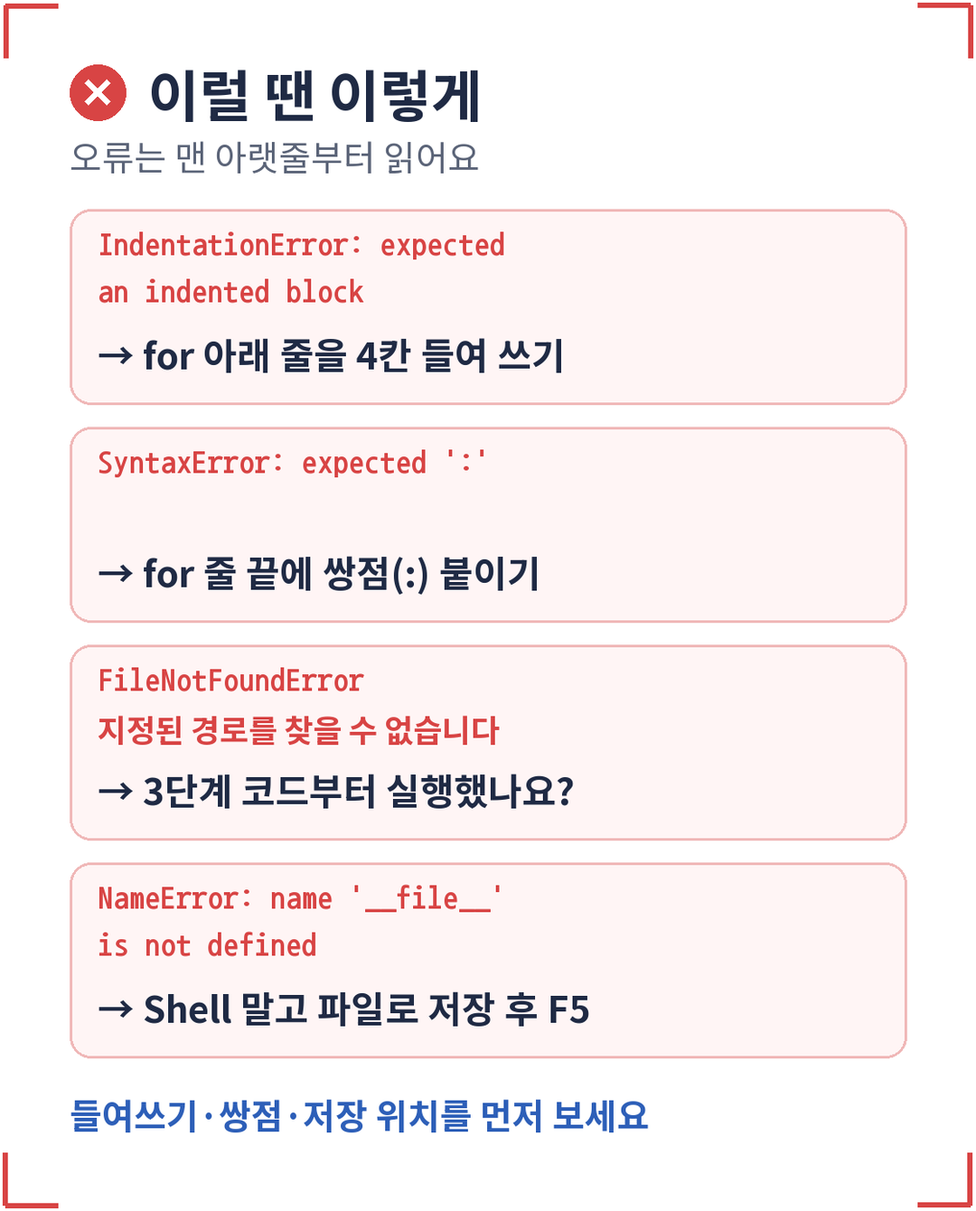
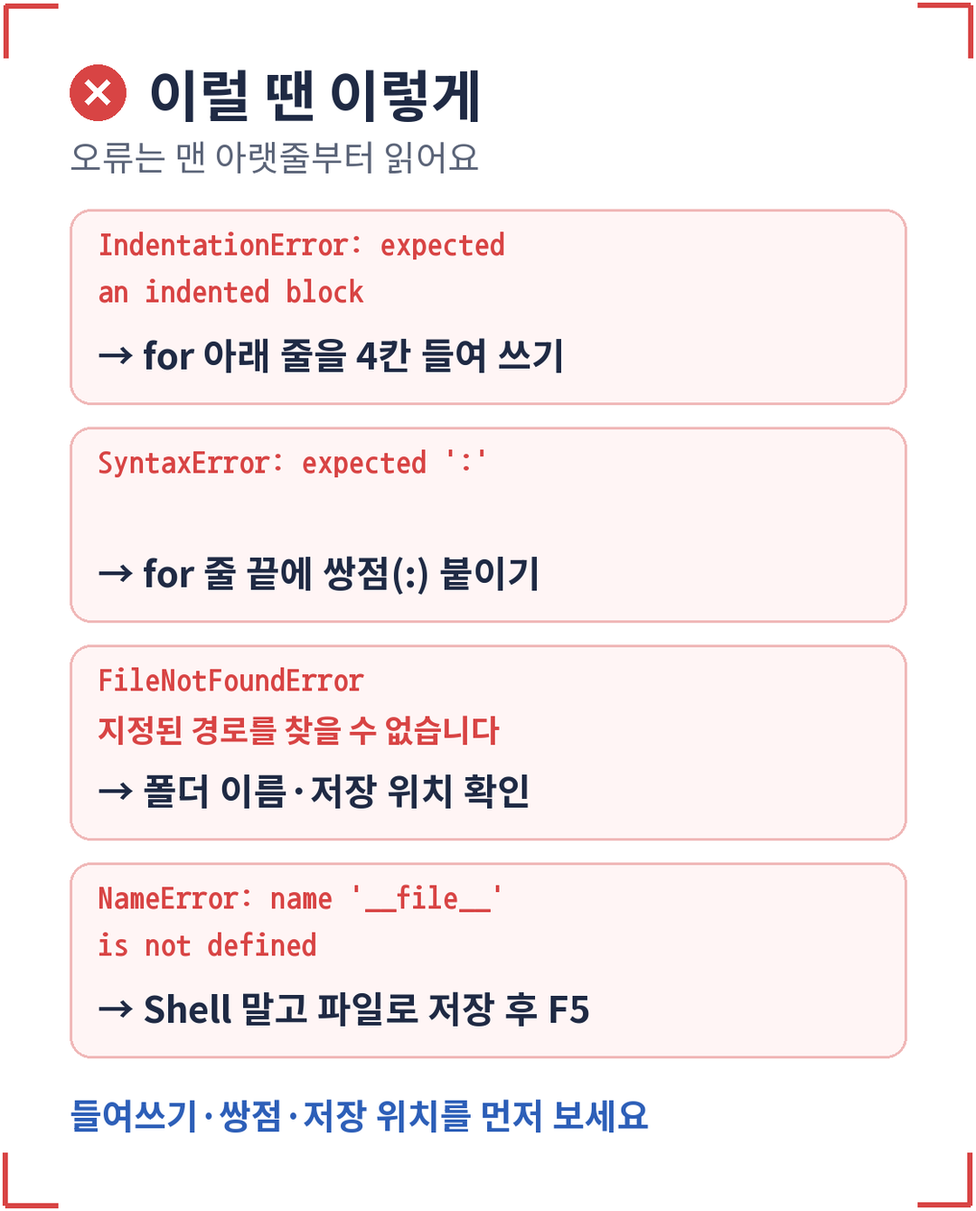
업무 파이썬 초급 2편 검수 반영·타이틀 적용, 0~1편 타이틀을 '파이썬 초급 N강' 배지 디자인으로 교체
- 2편: 외부 검수 열다섯 가지 반영(공백 포함 4,102자), 이미지 07 수정, 타이틀 적용
- 0·1편 타이틀: 노란 알약 배지 '파이썬 초급 N강' + 주제 두 줄로 다시 받아 적용
- 2편 새 타이틀은 글자가 위로 치우치고 폭이 넘쳐 측정값을 적어 다시 요청 중
- 연재 파일에 타이틀 규칙 추가, AGENTS.md 기록 갱신

Changed region(s): [[0.1528, 0.6425, 0.5806, 0.6731]]

diff --git a/문서/네이버-코딩가이드/20261121_업무파이썬-초급-02/index.html b/문서/네이버-코딩가이드/20261121_업무파이썬-초급-02/index.html
@@ -6,7 +6,7 @@
 검색 설명: 업무 파이썬 초급 연재 2편. 폴더에 쌓인 파일 이름을 파이썬으로 한 번에 뽑아 화면에 보여 주고 개수까지 센다. 여러 값을 담는 리스트, 하나씩 꺼내는 for 반복, 들여쓰기 규칙을 업무 예시로 풀었고, 결과를 엑셀에 붙이는 방법과 자주 나는 오류도 정리했다.
 카테고리: 파이썬 코딩
 태그: #파이썬 #파이썬기초 #파이썬초보 #업무자동화 #직장인 #파일목록 #파이썬for문 #파이썬리스트 #엑셀자동화 #pathlib
-글자 수: 본문 공백 포함 3,730자 / 공백 제외 2,985자 (빨간 글씨 이미지 표시·줄바꿈 제외, 코드 포함, 2026.11.21)
+글자 수: 본문 공백 포함 4,102자 / 공백 제외 3,272자 (빨간 글씨 이미지 표시·줄바꿈 제외, 코드 포함, 2026.11.21)
 본문 글자 크기: 16px. 소제목 h2 24px, h3 18px + 기호 ▣(이 글 안에서는 모두 같은 기호).
 연재: 「초보도 업무에서 바로 쓰는 파이썬」 초급 2편(목차·규칙은 저장소 루트 '네이버-코딩가이드-업무파이썬-연재.md'). 이전 편: 초급 1편 「보고서 이름에 날짜 자동 입력」.
 발행 방법: 이 파일을 브라우저로 연 다음 본문을 드래그해 복사 → 네이버 편집기에 붙여넣는다. 코드 블록은 네이버 편집기의 '소스코드' 기능으로 다시 넣는 것을 권장.
@@ -27,6 +27,7 @@
 - 코드 확인(2026.11.21, 윈도우 11·Python 3.14.5): 본문 코드 전부와 미션 코드를 실행. 리스트 출력 ['1월_매출.xlsx', '견적서_A사.pdf', '회의록.docx'] / 3 / 1월_매출.xlsx, for 출력 세 줄과 '끝', 연습 파일 8개 생성, 파일 목록 정렬 결과(1월·2월·3월 매출, 거래처_목록, 견적서 A·B, 행사_사진, 회의록_1105) '모두 8개', suffix 출력. 오류 메시지는 실제로 낸 것: IndentationError: expected an indented block after 'for' statement on line 2 / SyntaxError: expected ':' / FileNotFoundError: [WinError 3] 지정된 경로를 찾을 수 없습니다 / IndexError: list index out of range / (Shell에서) NameError: name '__file__' is not defined. Did you mean: '__name__'?
 - 정렬 순서는 숫자 → 한글 가나다 순으로 나왔다(문자 코드 순 정렬). 독자 PC에서도 같은 이름이면 같은 순서지만, 이름이 다르면 탐색기의 정렬과 조금 다를 수 있다고 본문에 적었다.
 - Shell 결과를 드래그해 복사한 뒤 엑셀에 붙이면 한 줄이 한 칸에 들어간다는 것은 일반적인 윈도우 동작(실제 엑셀 화면은 확인하지 못함, 그림은 도식).
+- [2026.11.21 외부 검수 반영(열다섯 가지)] '보기만'은 목록 코드에 한정하고 3단계는 빈 파일을 만든다고 밝힘, 위치 번호(인덱스)는 0부터, print(names)는 리스트 전체 표현, IDLE 자동 들여쓰기, 저장 위치 '파이썬연습 폴더 안', 샘플 폴더·빈 파일 8개가 '만들어진다', 리스트+for 연결 설명, mkdir의 exist_ok와 touch(이미 있으면 내용 그대로·수정 시각만)를 나눠 설명(공식 문서 확인), iterdir는 '바로 안'의 파일·폴더(하위 폴더 안까지는 아님), sorted는 이름의 문자 코드 순·탐색기와 다를 수 있음, 지금 코드는 파일·폴더 구분 안 함, 엑셀 붙이기는 '보통'·버전과 설정에 따라 다를 수 있음, 오류 개수 표현을 '정리했다'로·맨 아랫줄의 앞부분만 옮겼다고 밝힘, FileNotFoundError는 폴더가 없을 때만이 아니라 저장 위치·폴더 이름 문제로 넓힘. 이미지 07의 해당 줄도 '폴더 이름·저장 위치 확인'으로 고침. 검수가 확인을 요청한 이미지 04(print("끝")은 바깥)·05(8개·모두 8개)는 맞음. 초안에 넣었던 '한 칸에 몰리면 텍스트 나누기' 안내는 행이 아니라 열을 나누는 기능이라 맞지 않아 뺐다.
 - 2026-11-21부터 적용한 형식: 소제목 h2 24px·h3 18px+기호, 짧은 문장·짧은 문단, 의미 있는 이미지만(실사 없음). 0·1편은 앞선 형식 그대로다.
 -->
 
@@ -50,7 +51,9 @@
 
 <p style="font-size:16px;">이 목록은 그대로 복사해 엑셀이나 메일에 붙일 수 있어요.</p>
 
-<p style="font-size:16px;">파일 이름을 바꾸지도, 지우지도 않습니다. <b>보기만</b> 하니까 안심하고 따라 하세요.</p>
+<p style="font-size:16px;">오늘 배우는 파일 목록 코드는 이름을 바꾸거나 지우지 않습니다. <b>보기만</b> 해요.</p>
+
+<p style="font-size:16px;">다만 3단계에서는 연습용 빈 파일을 새로 만듭니다.</p>
 
 <p>&nbsp;</p>
 <hr style="border:none;border-top:1px solid #cfcfcf;margin:8px 0;">
@@ -82,7 +85,7 @@ print(names[0])</code></pre>
 <ul style="font-size:16px;">
 <li><code>len(names)</code>는 칸이 몇 개인지 셉니다. 여기서는 3이에요.</li>
 <li><code>names[0]</code>은 첫 번째 칸입니다.</li>
-<li>번호는 <b>1이 아니라 0부터</b> 셉니다. 세 칸이면 0, 1, 2예요.</li>
+<li>칸의 위치 번호(인덱스)는 <b>1이 아니라 0부터</b> 시작합니다. 세 칸이면 0, 1, 2예요.</li>
 </ul>
 
 <p style="font-size:16px;">괄호 안에서는 줄을 바꿔 써도 됩니다. 휴대폰에서 읽기 쉽게 한 줄에 하나씩 적었어요.</p>
@@ -91,7 +94,7 @@ print(names[0])</code></pre>
 <hr style="border:none;border-top:1px solid #cfcfcf;margin:8px 0;">
 <h2 style="font-size:24px;margin:40px 0 12px;">2단계: 하나씩 꺼내 보여 주기</h2>
 
-<p style="font-size:16px;"><code>print(names)</code>는 대괄호와 따옴표까지 한 줄에 다 보여 줍니다. 보고서에 붙이기엔 불편하죠.</p>
+<p style="font-size:16px;"><code>print(names)</code>는 리스트 전체를 대괄호와 따옴표까지 포함해 보여 줍니다. 보고서에 붙이기엔 불편하죠.</p>
 
 <p style="font-size:16px;">한 줄에 하나씩 보고 싶다면 <b>for</b>를 씁니다.</p>
 
@@ -115,7 +118,7 @@ print("끝")</code></pre>
 
 <ul style="font-size:16px;">
 <li>줄 끝의 <b>쌍점(:)</b>은 "여기부터 할 일이 나온다"는 표시예요.</li>
-<li>반복할 줄은 <b>스페이스 4칸</b> 들여 씁니다. IDLE은 쌍점 뒤에 엔터를 치면 알아서 들여 줍니다.</li>
+<li>반복할 줄은 <b>스페이스 4칸</b> 들여 씁니다. IDLE에서는 쌍점 뒤에 엔터를 치면 다음 줄이 자동으로 들여쓰기됩니다.</li>
 <li><code>print("끝")</code>은 들여쓰지 않았습니다. 그래서 반복이 다 끝난 뒤 한 번만 나와요.</li>
 </ul>
 
@@ -129,7 +132,7 @@ print("끝")</code></pre>
 
 <p style="font-size:16px;">회사 파일로 연습하지 않도록, 연습 파일을 코드로 만들어 둘게요.</p>
 
-<p style="font-size:16px;">아래 코드를 <b>파이썬연습</b> 폴더에 <b>make_samples.py</b>로 저장하고 F5를 누르세요.</p>
+<p style="font-size:16px;">아래 코드를 <b>파이썬연습</b> 폴더 안에 <b>make_samples.py</b>라는 이름으로 저장하고 F5를 누르세요.</p>
 
 <pre style="background:#1e2330; color:#e6e9f0; padding:16px; border-radius:8px; overflow-x:auto; line-height:1.6; font-size:14px; font-family:Consolas,'D2Coding',monospace;"><code>from pathlib import Path
 
@@ -151,9 +154,9 @@ for name in names:
 
 print("연습 파일을 만들었습니다.")</code></pre>
 
-<p style="font-size:16px;">'연습 파일을 만들었습니다.'가 나오면 <b>파이썬연습</b> 폴더 안에 <b>샘플</b> 폴더가 생깁니다. 그 안에 파일 8개가 들어 있어요.</p>
+<p style="font-size:16px;">코드가 정상 실행되면 '연습 파일을 만들었습니다.'가 나옵니다. <b>파이썬연습</b> 폴더 안에 <b>샘플</b> 폴더와 빈 파일 8개가 만들어져요.</p>
 
-<p style="font-size:16px;">앞에서 배운 리스트와 for가 그대로 들어 있죠? 이름 8개를 하나씩 꺼내 빈 파일을 만든 것입니다.</p>
+<p style="font-size:16px;">앞에서 배운 리스트와 for가 그대로 들어 있죠? 리스트에 담긴 이름 8개를 for로 하나씩 꺼내 빈 파일을 만든 것입니다.</p>
 
 <h3 style="font-size:18px;margin:24px 0 8px;">▣ 처음 보는 줄만 짧게</h3>
 
@@ -161,7 +164,8 @@ print("연습 파일을 만들었습니다.")</code></pre>
 <li><code>from pathlib import Path</code>: 파일과 폴더를 다루는 도구를 꺼내 옵니다.</li>
 <li><code>Path(__file__).parent</code>: '이 코드 파일이 있는 폴더'를 뜻합니다. 그래서 코드 파일을 꼭 저장한 뒤 실행해야 해요.</li>
 <li><code>/ "샘플"</code>: 그 폴더 안의 '샘플' 폴더라는 뜻입니다. 나눗셈이 아니에요.</li>
-<li><code>mkdir</code>는 폴더를, <code>touch</code>는 빈 파일을 만듭니다. <code>exist_ok=True</code>를 붙여서 이미 있어도 오류가 나지 않아요.</li>
+<li><code>mkdir</code>는 폴더를 만듭니다. <code>exist_ok=True</code>를 붙이면 폴더가 이미 있어도 오류가 나지 않아요.</li>
+<li><code>touch</code>는 파일이 없으면 빈 파일을 만듭니다. 같은 이름의 파일이 이미 있으면 내용은 그대로 두고 수정 시각만 바꿔요. 그래서 이 코드를 여러 번 실행해도 괜찮습니다.</li>
 </ul>
 
 <p style="font-size:16px;">만든 파일은 이름만 있는 <b>빈 파일</b>입니다. 엑셀로 열면 오류가 날 수 있어요. 이름 연습용으로만 쓰세요.</p>
@@ -185,29 +189,31 @@ print(f"모두 {len(files)}개")</code></pre>
 <p style="font-size:16px;color:#e60000;font-weight:bold;">[[ 이미지: 실행 결과 (05-실행-결과.png) ]]</p>
 
 <ul style="font-size:16px;">
-<li><code>folder.iterdir()</code>는 폴더 안에 든 것을 모두 가져옵니다.</li>
-<li><code>sorted( )</code>는 가나다순으로 줄을 세웁니다. 파이썬 공식 문서에 따르면 <code>iterdir()</code>만 쓰면 순서가 정해져 있지 않아요.</li>
+<li><code>folder.iterdir()</code>는 폴더 <b>바로 안</b>에 있는 파일과 폴더를 하나씩 돌려줍니다. 그 폴더 속 폴더의 안쪽까지 뒤지지는 않아요.</li>
+<li><code>sorted( )</code>는 이름을 기준으로 줄을 세웁니다. 파이썬 공식 문서에 따르면 <code>iterdir()</code>만 쓰면 순서가 정해져 있지 않아요.</li>
 <li><code>file.name</code>은 경로를 뺀 파일 이름만 꺼냅니다.</li>
 <li>마지막 줄은 1편에서 배운 글자 끼워 넣기(f)입니다. 리스트의 칸 수를 문장 안에 넣었어요.</li>
 </ul>
 
-<p style="font-size:16px;">정렬은 숫자가 먼저, 한글은 가나다순으로 나옵니다. 탐색기 정렬과 조금 다를 수 있어요.</p>
+<p style="font-size:16px;">파이썬은 이름의 글자 순서(문자 코드 순)로 정렬합니다. 이 예제에서는 숫자가 먼저, 한글이 그다음으로 나왔어요. 윈도우 탐색기의 정렬 결과와는 다를 수 있습니다.</p>
 
-<p style="font-size:16px;">샘플 폴더에 들어 있는 것이 폴더라면 그 이름도 함께 나옵니다. 폴더만 빼는 방법은 4편에서 다룹니다.</p>
+<p style="font-size:16px;">지금 코드는 파일과 폴더를 구분하지 않습니다. 샘플 폴더 안에 폴더가 있으면 그 폴더 이름도 함께 나와요. 폴더를 빼는 방법은 4편에서 다룹니다.</p>
 
 <p>&nbsp;</p>
 <hr style="border:none;border-top:1px solid #cfcfcf;margin:8px 0;">
 <h2 style="font-size:24px;margin:40px 0 12px;">목록을 엑셀로 옮기려면?</h2>
 
-<p style="font-size:16px;">Shell 창의 결과는 보통 글자처럼 복사할 수 있습니다.</p>
+<p style="font-size:16px;">Shell 창에 출력된 결과는 마우스로 선택해 복사할 수 있습니다.</p>
 
 <p style="font-size:16px;color:#e60000;font-weight:bold;">[[ 이미지: 엑셀에 붙이기 (06-엑셀에-붙이기.png) ]]</p>
 
 <ul style="font-size:16px;">
 <li>Shell 창에서 파일 이름 줄들을 마우스로 끌어 선택합니다.</li>
 <li><b>Ctrl+C</b>로 복사합니다.</li>
-<li>엑셀의 A1 칸을 누르고 <b>Ctrl+V</b>로 붙입니다. 한 줄이 한 칸씩 들어가요.</li>
+<li>엑셀의 A1 칸을 누르고 <b>Ctrl+V</b>로 붙입니다. 보통 한 줄이 한 칸씩 들어가요.</li>
 </ul>
+
+<p style="font-size:16px;">엑셀 버전이나 설정에 따라 붙는 모양이 조금 다를 수 있어요.</p>
 
 <p style="font-size:16px;">결과를 엑셀 파일로 바로 저장하는 방법은 10편에서 다룹니다. 지금은 복사만으로 충분해요.</p>
 
@@ -215,14 +221,14 @@ print(f"모두 {len(files)}개")</code></pre>
 <hr style="border:none;border-top:1px solid #cfcfcf;margin:8px 0;">
 <h2 style="font-size:24px;margin:40px 0 12px;">안 될 때 확인할 것</h2>
 
-<p style="font-size:16px;">오류 메시지는 맨 아랫줄부터 보세요. 이번 편에서 자주 나는 것은 네 가지입니다.</p>
+<p style="font-size:16px;">오류 메시지는 맨 아랫줄부터 보세요. 이번 편에서 자주 만날 수 있는 오류를 정리했습니다. 아래는 맨 아랫줄의 앞부분만 옮긴 것이에요.</p>
 
 <p style="font-size:16px;color:#e60000;font-weight:bold;">[[ 이미지: 안 될 때 (07-안-될-때.png) ]]</p>
 
 <ul style="font-size:16px;">
 <li><code>IndentationError: expected an indented block</code> — for 아래 줄을 들여쓰지 않았어요. 스페이스 4칸을 넣으세요.</li>
 <li><code>SyntaxError: expected ':'</code> — for 줄 끝의 쌍점(:)이 빠졌습니다.</li>
-<li><code>FileNotFoundError</code>와 '지정된 경로를 찾을 수 없습니다' — 샘플 폴더가 없어요. 3단계 코드를 먼저 실행했는지, 두 코드 파일이 같은 폴더에 있는지 확인하세요.</li>
+<li><code>FileNotFoundError</code>와 '지정된 경로를 찾을 수 없습니다' — 코드가 가리키는 폴더를 찾지 못했어요. 3단계 코드를 먼저 실행했는지, 두 코드 파일이 같은 폴더에 있는지, 폴더 이름('샘플')을 똑같이 썼는지 확인하세요.</li>
 <li><code>NameError: name '__file__' is not defined</code> — 코드를 Shell 창에 한 줄씩 넣었을 때 납니다. 새 파일에 쓰고 저장한 뒤 F5로 실행하세요.</li>
 </ul>
 

diff --git a/AGENTS.md b/AGENTS.md
@@ -207,7 +207,7 @@
 ## 다음 글 후보
 - **연재 계획 파일 이름 규칙**(사용자 지시, 2026-11-19): 연재마다 저장소 루트에 `[블로그종류]-[주제]-연재.md`로 만든다. `[블로그종류]`는 문서 폴더 이름과 같게(`네이버-코딩가이드`, `티스토리-코딩가이드`, `티스토리-히스토리가이드`, `티스토리-이코노미가이드`). 예: `네이버-코딩가이드-아두이노-연재.md`.
 - **네이버 아두이노 연재**(사용자 결정, 2026-11-19): 왕초보 입문 12편 → 스마트 화분 만들기 7편으로 이어 가는 연재. 목차·편마다 같은 틀·문체·확인 방법·진행 상황은 저장소 루트 **`네이버-코딩가이드-아두이노-연재.md`**에 있다(편을 쓸 때마다 그 파일의 진행 상황을 고친다). 연재 안에서는 구성을 통일한다(글마다 구성을 바꾸는 규칙의 예외). **어린이 말투에 맞게 난이도도 낮춘다(사용자 지시, 2026-11-20): 편수는 얼마든지 늘려도 되고, 한 편에 어려운 새 개념은 두세 개까지, 문장은 짧게, 어려운 개념에는 꼭 '🧩 쉽게 이해하기' 칸, 정확성 단서는 '학부모·선생님께'로 옮긴다**(버튼 글을 5·6편으로 나누고, 이미 발행한 3편을 보충하는 4편을 넣어 기초 14편이 됨. 발행한 글은 고치지 않고 보충편을 만든다). **독자는 초등학생~중학생(과 지도하는 어른)이고, 자기 아두이노(실물)로 따라 한다. 글은 실물 우노 기준.** 사용자에게 아두이노가 없어 **Wokwi 시뮬레이터는 글쓴이가 그림·결과를 만들고 코드를 확인하는 도구로만 쓰고, 본문에 Wokwi 사용법을 넣지 않는다**(글쓴이에게 보드가 없다는 것·시뮬레이터로 만들었다는 것은 본문·그림에 쓰지 않고 발행 메모에만 남긴다. 대신 직접 해 본 것처럼 쓰지 않고 실물 결과를 단정하지 않는다 — 사용자 결정 2026-11-19). 실물 과정(IDE 설치·업로드 등)은 아두이노 공식 문서로 확인한 내용만 쓴다. 기존 아두이노 글이 10편 이상 있지만, 겹쳐도 괜찮다는 규칙에 따라 제목 확인 없이 진행한다.
-- **네이버 「업무 파이썬 초급」 연재**(사용자 결정, 2026-11-19): 직장인 초보를 위한 13편(설치 → 파일·폴더 정리 → 엑셀 → 보고서·PDF → 오류 읽기), 이어서 중급. 목차·틀·규칙·진행 상황은 저장소 루트 **`네이버-코딩가이드-업무파이썬-연재.md`**. 제목 접두어 `[업무 파이썬 초급 #N]`. 0~2편은 작성했고 다음은 3편(파일 이름 앞에 날짜를 붙여 한 번에 바꾸기, 미리보기 먼저). 문법을 제목에 내세우지 않고 업무 하나씩 풀며 문법은 그 안에서 한두 개만 소개한다.
+- **네이버 「업무 파이썬 초급」 연재**(사용자 결정, 2026-11-19): 직장인 초보를 위한 13편(설치 → 파일·폴더 정리 → 엑셀 → 보고서·PDF → 오류 읽기), 이어서 중급. 목차·틀·규칙·진행 상황은 저장소 루트 **`네이버-코딩가이드-업무파이썬-연재.md`**. 제목 접두어 `[업무 파이썬 초급 #N]`. 0~2편은 작성했고 다음은 3편(파일 이름 앞에 날짜를 붙여 한 번에 바꾸기, 미리보기 먼저). **타이틀은 노란 알약 배지 `파이썬 초급 N강` + 주제 두 줄**(사용자 결정, 2026-11-21. 0~2편 타이틀을 이 배치로 다시 요청함 — 자세한 기준은 연재 파일). 0·1편 타이틀은 새 배치('파이썬 초급 0강 / 설치하고 / 첫 실행', '파이썬 초급 1강 / 보고서 이름 / 날짜 자동!')로 다시 받아 적용했다(글자 정확, 덩어리 위아래 중심 약 48~49%, 가장 넓은 줄 약 66~69%, 크기만 1254 → 1080px, 이전 타이틀은 scratchpad/backup/py0·py1-01-old-title.png). 2편은 글자 덩어리가 위로 치우치고(중심 약 40%) 윗줄이 약 87%로 넘쳐 측정값을 적어 다시 요청 중. 문법을 제목에 내세우지 않고 업무 하나씩 풀며 문법은 그 안에서 한두 개만 소개한다.
 - **티스토리 히스토리가이드 「여행 속 역사」 연재**(사용자 계획서, 2026-11-20): 여행지를 지역별로 소개하며 지역의 역사 → 가볼 만한 곳과 그곳의 인물·예술 → 먹거리의 역사(맛집 소개 아님) 순으로 쓰는 연재. 국내와 해외를 번갈아 섞어 쓰며(사용자 요청: 한국에 국한하지 않음) 1~5편 후보는 경주·로마·수원·파리·빈(일본은 사용자 요청으로 제외, 나중에 다시 제안), 목적은 여행 전 검색 유입. 틀·규칙·목차·진행 상황은 저장소 루트 **`티스토리-히스토리가이드-여행속역사-연재.md`**(편을 쓸 때마다 진행 상황을 고친다). 첫 편 지역·제목 접두어는 미정.
 - 티스토리 코딩가이드 (우선): **합친 엑셀에 조건부 서식(배경색) 자동 적용** — 엑셀 합치기 글 끝에서 예고함(2025.4.9 배경색 글과 겹쳐도 괜찮다, 2026-11-17 사용자 지시).
 - 티스토리 코딩가이드 빈 분류 채우기 후보: 안드로이드(릴리스 빌드에서만 생기는 R8 크래시 해결 등 사용자의 실제 개발 경험), 자바·C언어(설치와 첫 프로그램), 코틀린(null 안전성 정리).
@@ -217,7 +217,7 @@
 - 히스토리 가이드 후보(2026-11-15 제안, 4번 수능의 역사는 작성함): 한지 유네스코 등재(최종 결정 11.30~12.5 정부간위원회) / 김장 문화의 역사(김장철) / 단종과 영월 청령포('왕과 사는 남자' 흥행) / 순국선열의 날.
 
 ## 진행 상황 (2026-11-21 기준)
-- 2026-11-21: 네이버 **「업무 파이썬 초급」 2편** `문서/네이버-코딩가이드/20261121_업무파이썬-초급-02/index.html` 작성(「[업무 파이썬 초급 #2] 폴더 속 파일 이름 한눈에 보기」, 카테고리 파이썬 코딩, 공백 포함 3,730자). 리스트·for를 업무(받은 파일 목록 정리) 안에서 소개하고, 연습 파일을 코드로 만들어 준 뒤 `pathlib`으로 폴더 속 이름과 개수를 출력, Shell 결과를 엑셀에 붙이는 법까지. 코드·오류 메시지는 이 PC에서 실행해 확인, pathlib·IDLE 동작은 공식 문서와 idlelib 소스로 확인. 새 형식(h2 24px·h3 18px ▣, 짧은 문장, 의미 있는 이미지만) 적용. AI 도식 6장(02~07)은 `images/`에 있고, ChatGPT 01 타이틀('파이썬으로 / 파일 목록 뽑기')은 요청 중. 자세한 내용은 연재 파일.
+- 2026-11-21: 네이버 **「업무 파이썬 초급」 2편** `문서/네이버-코딩가이드/20261121_업무파이썬-초급-02/index.html` 작성(「[업무 파이썬 초급 #2] 폴더 속 파일 이름 한눈에 보기」, 카테고리 파이썬 코딩, 검수 반영 후 공백 포함 4,102자). 리스트·for를 업무(받은 파일 목록 정리) 안에서 소개하고, 연습 파일을 코드로 만들어 준 뒤 `pathlib`으로 폴더 속 이름과 개수를 출력, Shell 결과를 엑셀에 붙이는 법까지. 코드·오류 메시지는 이 PC에서 실행해 확인, pathlib·IDLE 동작은 공식 문서와 idlelib 소스로 확인. 새 형식(h2 24px·h3 18px ▣, 짧은 문장, 의미 있는 이미지만) 적용. AI 도식 6장(02~07)은 `images/`에 있고, ChatGPT 01 타이틀('파이썬으로 / 파일 목록 뽑기')도 적용했다 — 글자 정확, 열린 노란 폴더에서 빈 파일 카드가 줄지어 나오는 남색 배경, 로고 없음. 아랫줄이 가로 약 87%로 허용 85%를 넘어 전체를 95%로 줄이고 가장자리를 흐린 원본과 40px로 섞음(약 83%, 테두리처럼 보이지 않음, 200px에서도 읽힘, 원본 scratchpad/backup/py2-01-original.png). 이미지 7장 완료, 대기 중인 요청 없음. 남은 일은 사용자의 네이버 발행뿐이다. 자세한 내용은 연재 파일.
 - 2026-11-21: 이코노미 가이드 `문서/티스토리-이코노미가이드/20261121_VIX-30-그후/index.html` 작성("공포지수가 30을 넘은 뒤, S&P500은 어떻게 됐을까? 1990년 이후 22번의 기록", 분류 주식 | 환율, 검수 반영 후 공백 포함 3,949자). 사용자가 'VIX를 소재로 이코노미가이드에, 네이버 VIX 글과 연결되지만 다르게'를 요청해 제안 5개 중 1번. 용어 해설(네이버)과 달리 **데이터로 직접 계산한 글**.
   - 계산: Cboe VIX 일별 CSV + 야후 ^GSPC 일별 종가(curl, User-Agent 'Mozilla/5.0'로 query1 chart API JSON — stooq는 접근 차단). 사건 = VIX 종가 30 이상이 된 날 중 앞 60거래일 동안 30 이상이 없던 날(22번, 1990.8~2026.3). 결과: 1년 뒤 14/21 상승(67%)·중간값 +15.5% vs 평소 81%·+11.9%, 3개월 안 10% 넘게 더 하락 6번(2008.9 -36.9%), 1년 뒤 하락 7번은 닷컴 버블·금융위기·2022 하락장 초입. VIX 40은 10번 중 8번 상승·중간값 +22.9%. 최근 급락장이 같은 기준 23번째(결과 미정). 스크립트 임시 폴더 vix/analyze.py·events.json·econ.py. 같은 날 외부 검수 열다섯 가지 반영. **과거 데이터 통계 글 기준**: 전체 사례 수와 결과를 확인할 수 있는 사례 수(22·21)를 처음부터 구분하고 분모를 늘 밝힌다. '샀다면'은 '종가에 샀다고 가정'으로 쓴다. 비교 기준(전체 거래일)을 명시한다. '넘었다'와 '이상'처럼 기준 표현을 통일하고 정의한다. 어림('네 번 중 한 번꼴', '25% 넘게')은 계산값과 어긋나지 않게 실제 숫자로 쓴다. 관측된 숫자에서 원인(긴 하락장 초입·경기 침체)을 단정하지 않는다.
   - 이미지 6장: AI 02 한눈에(4:5, 카드)·03 셈하는 방법(1:1, 얇은 선)·04 1년 뒤 22번 막대(4:5, 겹선, 상승 빨강·하락 파랑)·05 더 빠진 폭(4:5, 왼쪽 띠)·06 모르는 것(1:1, 꺾쇠)는 `images/`에 있다. ChatGPT 요청: 01 타이틀('공포지수 30 넘으면 / 그 뒤 증시는?', 성인용 세련된 스타일). 같은 날 사용자 요청으로 06 '이 숫자로 알 수 없는 것'도 ChatGPT 2×2 아이콘 카드로 다시 요청(AI 버전 백업 scratchpad/backup/econvix-06-ai.png). ChatGPT 이미지 2장 적용: 01 타이틀(윗줄 약 87% → 96%로 줄이고 가장자리를 흐린 원본과 40px 부드럽게 섞어 약 84%, 이번에는 액자처럼 보이지 않음)·06(2×2 카드, 글자 정확). 이미지 6장 완료, 대기 중인 요청 없음. **타이틀을 줄일 때는 단색 채움 대신, 원본을 살짝 흐린 것 위에 줄인 그림을 넓은 경계(40px)로 섞으면 테두리가 생기지 않는다.** 본문 h3 기호 ▶, '결론부터'만 청록 강조. 링크 자리: 네이버 VIX 글·이코노미 공포탐욕지수 글. 투자 권유 아님·과거 기록이 앞날을 보장하지 않음 명시.

diff --git a/이미지요청.md b/이미지요청.md
@@ -18,18 +18,19 @@
   - **글자는 요청에 적힌 그대로**: 틀린 글자·빠진 글자·다른 글자가 없게 해 주세요.
 - 가운데가 너무 비지 않게 채워 주세요.
 
-## 업무 파이썬 초급 2편 (네이버) — 1장
+## 업무 파이썬 초급 2편 타이틀 다시 만들기 (네이버) — 1장
 
-### 01-타이틀.png
-- **이 그림의 역할**: 블로그 목록의 작은 썸네일에서 '파이썬으로 폴더 속 파일 목록을 뽑는 글'임을 한눈에 알게 하기.
-- **독자는 성인(코딩이 처음인 직장인) — 내용은 쉽게, 표현은 세련되게.** 경제 잡지·업무용 앱 안내 화면 같은 에디토리얼 느낌으로 만들어 주세요. 귀여운 캐릭터·손·말풍선·반짝이·장난감 같은 3D·굵은 테두리 만화 글씨는 쓰지 마세요.
-- 크기: 1:1 정사각형 1080×1080.
-- 글자는 아래 **두 줄 그대로**, 정가운데에:
-  - 윗줄: `파이썬으로`
-  - 아랫줄: `파일 목록 뽑기`
-- 글자 영역(1080 기준): 글자(테두리·그림자 포함)의 **왼쪽 끝은 108px보다 안쪽, 오른쪽 끝은 972px보다 안쪽 → 한 줄 864px 이하**. 위쪽 끝은 108px보다 아래, 아래쪽 끝은 972px보다 위. 글자 덩어리는 위아래·좌우 정가운데. 넘칠 것 같으면 글자 크기를 줄여 주세요. **아랫줄 `파일 목록 뽑기`는 띄어쓰기가 두 번 있어 특히 864px 이하로** 해 주세요.
-- 글자는 굵고 단정한 고딕체, 흰색 또는 밝은 색에 은은한 그림자로 또렷하게. 목록 썸네일(폭 약 200px)에서도 읽히는 크기로.
-- 작은 글씨(부제·라벨·설명) 금지, 적힌 두 줄 말고 다른 글자 금지, 테두리(액자·프레임) 금지. 틀린 글자·빠진 글자 없이 적힌 그대로.
-- 배경: 차분한 남색~청록 계열 위에, 서류 폴더 하나가 열려 그 안의 **파일 카드 여러 장(종이 모양, 글자 없음)**이 한 줄씩 가지런히 목록처럼 펼쳐져 나오는 장면. 단순한 선·면 위주의 세련된 일러스트, 강조색은 한두 가지(예: 노란색). 소품은 글자 뒤쪽 레이어에 크게 그리고, 글자를 피하려고 그림을 작게 줄이지 마세요(글자가 그림 일부를 가려도 괜찮습니다).
-- 금지: 파이썬 로고(파란·노란 뱀), 엑셀·윈도우 같은 프로그램 로고·상표, 읽을 수 있는 파일 이름이나 코드 글자.
+### 01-타이틀.png (업무 파이썬 초급 2편)
+- **다시 요청하는 이유(앞서 받은 그림의 측정값, 1254px 기준)**: 글자는 정확했지만 ① 글자 덩어리(배지 위 끝 168px ~ 아랫줄 아래 끝 829px)의 위아래 중심이 위에서 약 40%로 **위쪽에 치우쳤고**, ② 윗줄 `폴더 속 파일`이 외곽선까지 가로 약 87%로 **최대 80%를 넘었습니다.** 이번에는 ① 글자 덩어리 전체의 위아래 중심을 정확히 이미지 한가운데(1080 기준 위에서 540px)에 두고, ② 주제 두 줄의 글자 크기를 줄여 가장 긴 줄도 가로 760px 이하(약 70%)로 해 주세요. 아래쪽의 폴더·파일 카드 그림을 글자가 가려도 괜찮습니다. 배경 분위기(남색, 노란 폴더, 줄지은 파일 카드)는 앞서 받은 그림과 비슷하게 해 주세요.
+- **이 그림의 역할**: 블로그 목록 썸네일에서 '파이썬 초급 강의 2강, 폴더 속 파일 목록을 뽑는 법'임을 한눈에 알게 하기.
+- **독자는 성인(코딩이 처음인 직장인) — 내용은 쉽게, 표현은 세련되게.** 차분하고 단정한 에디토리얼 느낌으로, 귀여운 캐릭터·손·말풍선·반짝이·장난감 같은 3D는 넣지 마세요.
+- 크기: 1:1 정사각형 1080×1080. 테두리(액자·프레임) 없음.
+- **배경**: 차분한 남색~청록 그라데이션 위에, 열린 노란 서류 폴더에서 빈 파일 카드(종이 모양, 글자 없음) 여러 장이 비스듬히 한 줄로 줄지어 나오는 장면. 단순한 선·면 위주의 세련된 일러스트. 배경은 살짝 흐리게(보케) 처리하고 약간 어둡게 눌러, 위에 얹는 글자가 또렷하게 읽히게 해 주세요. 소품은 글자 뒤쪽 레이어에 크게 그리고, 글자를 피하려고 그림을 작게 줄이지 마세요(글자가 그림 일부를 가려도 괜찮습니다).
+- **글자 배치 (적힌 그대로, 다른 글자 금지)**: 위아래로 세 덩어리를 쌓습니다.
+  - 맨 위 배지: `파이썬 초급 2강` — 노란색(#FFD400 안팎) 알약 모양(양 끝이 둥근 가로로 긴 캡슐) 배지 안에 진한 남색 굵은 글씨. 배지 테두리도 진한 남색, 약한 그림자. **배지 가로는 이미지의 약 65%(약 700px)**, 배지 안 글자 높이 약 85px(아래 주제 글자보다 확실히 작게).
+  - 배지 바로 아래 주제 윗줄: `폴더 속 파일`
+  - 그 아래 주제 아랫줄: `목록 뽑기`
+  - 주제 두 줄은 흰색 아주 굵은 고딕, 진한 남색 외곽선과 그림자. 배지 글자보다 크게(글자 높이 약 120~130px, 80% 안에서 여유 있게). 두 줄 모두 가운데 정렬.
+  - **모든 글자는 이미지 한가운데에.** 배지와 주제 두 줄은 각각 가로 가운데 정렬로, 세 덩어리의 가운데가 이미지의 세로 중심선(왼쪽에서 540px)에 맞게 놓아 주세요. 배지·주제 두 줄을 합친 글자 덩어리 전체의 위아래 중심도 이미지의 가로 중심선(위에서 540px)에 오게 해 주세요(위나 아래로 치우치지 않게). **글자를 가운데에 두느라 글자가 소품·그림(폴더, 노트북, 달력 등)을 가려도 괜찮습니다.** 그림을 피하려고 글자를 위·아래·옆으로 옮기지 말고, 가운데 위치를 지켜 주세요. 글자 덩어리(테두리·그림자 포함)의 왼쪽 끝은 108px보다 안쪽, 오른쪽 끝은 972px보다 안쪽(배지·각 줄 모두 가로 864px 이하), 위쪽 끝은 108px보다 아래, 아래쪽 끝은 972px보다 위. **이 80%는 넘지 말아야 할 최대 크기일 뿐, 꽉 채울 필요는 없습니다.** 글자가 자연스럽게 보이는 크기로 두고, 넘칠 것 같으면 글자 크기를 줄여 주세요. **윗줄 `폴더 속 파일`은 띄어쓰기가 두 번 있어 특히 864px 이하로.**
+- 작은 글씨(부제·라벨·설명) 금지, 로고·상표(파이썬의 파란·노란 뱀 로고, 엑셀·윈도우·노트북 제조사 로고) 금지, 그림 속 읽히는 글자 금지. 틀린 글자·빠진 글자 없이.
 - 가운데가 너무 비지 않게 채워 주세요.

diff --git a/네이버-코딩가이드-업무파이썬-연재.md b/네이버-코딩가이드-업무파이썬-연재.md
@@ -22,6 +22,10 @@
 - 코드 한 줄은 모바일에서 잘리지 않게 **35자 안팎**으로 쓴다.
 - 네이버 형식은 `AGENTS.md`의 '네이버용 HTML 형식'(모바일 우선, 본문 16px, h2 위 구분선, 빨간 글씨 이미지 표시, 타이틀은 도입 한두 문장 뒤)을 따른다.
 
+## 타이틀(01) 규칙 (사용자 결정, 2026-11-21)
+- 모든 편의 타이틀은 **위에 노란 알약 배지 `파이썬 초급 N강`**(가로 약 65%, 글자 높이 약 85px, 진한 남색 테두리·글씨) + **아래에 그 편의 주제 두 줄**(흰색 아주 굵은 고딕, 남색 외곽선·그림자, 글자 높이 약 120~130px)로 만든다. 글자 덩어리 80%는 최대 크기이지 꽉 채울 목표가 아니다(사용자 지시, 2026-11-21). 주제 줄에는 '파이썬'을 다시 넣지 않는다(배지에 있음). 중급은 `파이썬 중급 N강`.
+- 배경·소품은 편마다 주제에 맞게 다르게. 0~2편은 이 배치로 다시 요청했다(시안을 첨부할 수 없어 배경을 글로 설명했고, 처음 타이틀과 디자인이 조금 달라져도 된다는 사용자 결정). 0·1편 타이틀은 새 배치('파이썬 초급 0강 / 설치하고 / 첫 실행', '파이썬 초급 1강 / 보고서 이름 / 날짜 자동!')로 다시 받아 적용했다(글자 정확, 덩어리 위아래 중심 약 48~49%, 가장 넓은 줄 약 66~69%, 크기만 1254 → 1080px, 이전 타이틀은 scratchpad/backup/py0·py1-01-old-title.png). 2편은 글자 덩어리가 위로 치우치고(중심 약 40%) 윗줄이 약 87%로 넘쳐 측정값을 적어 다시 요청 중.
+
 ## 편마다 같은 틀 (연재 안에서는 구성을 통일한다)
 1. **이런 상황이라면** — 업무 상황 두세 줄(가정 사례)
 2. **결과부터 보기** — 완성된 폴더·엑셀 화면(이미지)
@@ -67,8 +71,8 @@
 - 1편 작성(2026-11-19): `문서/네이버-코딩가이드/20261119_14개/20261119_업무파이썬-초급-01/` 「[업무 파이썬 초급 #1] 보고서 이름에 날짜 자동 입력」, 공백 포함 3,767자(코드 포함, 외부 검수 네 가지 반영). 새로 나온 것: `import`(도구 꺼내 오기), 변수(이름표), f-string, `strftime`(%Y %m %d %y). 이름 글자만 만들어 화면에 보여 주고 실제 파일 이름 바꾸기는 3편으로. 파일 이름에 못 쓰는 글자(`< > : " / \ | ? *`)는 Microsoft Learn로 확인. 코드·오류 메시지는 이 PC에서 실행해 확인.
   - 이미지 7장: AI 5장(03~07)은 `images/`에 있고, ChatGPT 01 타이틀('파이썬으로 / 보고서 이름 / 날짜 자동!')·02 월말 책상 플랫레이 실사도 적용했다(글자 정확, 폭 약 70%). 이미지 7장 완료, 대기 중인 요청 없음. 남은 일은 0편 발행 뒤 사용자의 네이버 발행뿐이다.
   - 다음: 2편 「폴더 속 파일 이름 한눈에 보기」(리스트·`for`, 연습용 파일을 코드로 만들어 주기). 1편의 `file_name` 이름표를 3편에서 다시 쓴다.
-- 2편 작성(2026-11-21): `문서/네이버-코딩가이드/20261121_업무파이썬-초급-02/` 「[업무 파이썬 초급 #2] 폴더 속 파일 이름 한눈에 보기」, 공백 포함 3,730자(코드 포함). 새로 나온 것: 리스트(`[ ]`, `len`, 0부터 번호), `for`와 쌍점·들여쓰기 4칸. 연습 파일 8개를 만드는 코드(`make_samples.py`, `샘플` 폴더에 빈 파일)를 주고, `file_list.py`로 `Path(__file__).parent / "샘플"`의 `sorted(folder.iterdir())`를 돌려 이름과 개수(1편 f-string 재사용)를 출력. 결과를 Shell에서 복사해 엑셀에 붙이는 법, 오류 다섯 가지(IndentationError·expected ':'·FileNotFoundError·Shell에서 __file__ NameError·IndexError).
+- 2편 작성(2026-11-21): `문서/네이버-코딩가이드/20261121_업무파이썬-초급-02/` 「[업무 파이썬 초급 #2] 폴더 속 파일 이름 한눈에 보기」, 공백 포함 4,102자(코드 포함, 외부 검수 열다섯 가지 반영). 새로 나온 것: 리스트(`[ ]`, `len`, 0부터 번호), `for`와 쌍점·들여쓰기 4칸. 연습 파일 8개를 만드는 코드(`make_samples.py`, `샘플` 폴더에 빈 파일)를 주고, `file_list.py`로 `Path(__file__).parent / "샘플"`의 `sorted(folder.iterdir())`를 돌려 이름과 개수(1편 f-string 재사용)를 출력. 결과를 Shell에서 복사해 엑셀에 붙이는 법, 오류 다섯 가지(IndentationError·expected ':'·FileNotFoundError·Shell에서 __file__ NameError·IndexError).
   - 근거: docs.python.org pathlib(iterdir 순서 정해지지 않음, mkdir exist_ok, touch, name, suffix), IDLE Run Module이 `__file__`을 넣고 작업 폴더를 파일 위치로 바꾼다는 것은 Python 3.14 idlelib/runscript.py 소스로 확인. 코드·오류 메시지 모두 이 PC(Python 3.14.5)에서 실행.
   - 앞으로 쓸 약속: 폴더를 빼는 법은 4편(if), 엑셀 파일로 저장은 10편. 3편 예고: 꺼낸 이름 앞에 날짜를 붙여 바꾸기(미리보기 먼저). 3편도 `샘플` 폴더를 그대로 쓴다.
   - **2편부터 새 형식**: h2 24px, h3 18px + 기호(2편은 ▣), 짧은 문장·문단, 이해를 돕는 이미지만(실사 없음). 0·1편은 앞선 형식 그대로 둔다.
-  - 이미지 7장: AI 02 결과 미리보기·03 리스트 칸·04 for 흐름·05 실행 결과·06 엑셀에 붙이기·07 안 될 때(모두 1,080px, 글자 36px 이상)는 `images/`에 있다. ChatGPT 01 타이틀('파이썬으로 / 파일 목록 뽑기', 성인용 세련된 스타일)은 `이미지요청.md`에 요청했다. 그림 스크립트는 임시 폴더 py2/img2.py.
+  - 이미지 7장: AI 02 결과 미리보기·03 리스트 칸·04 for 흐름·05 실행 결과·06 엑셀에 붙이기·07 안 될 때(모두 1,080px, 글자 36px 이상)는 `images/`에 있다. ChatGPT 01 타이틀('파이썬으로 / 파일 목록 뽑기')도 적용했다 — 글자 정확, 열린 노란 폴더에서 빈 파일 카드가 줄지어 나오는 남색 배경, 로고 없음. 아랫줄이 가로 약 87%로 허용 85%를 넘어 전체를 95%로 줄이고 가장자리를 흐린 원본과 40px로 섞음(약 83%, 테두리처럼 보이지 않음, 200px에서도 읽힘, 원본 scratchpad/backup/py2-01-original.png). 이미지 7장 완료, 대기 중인 요청 없음. 그림 스크립트는 임시 폴더 py2/img2.py.
